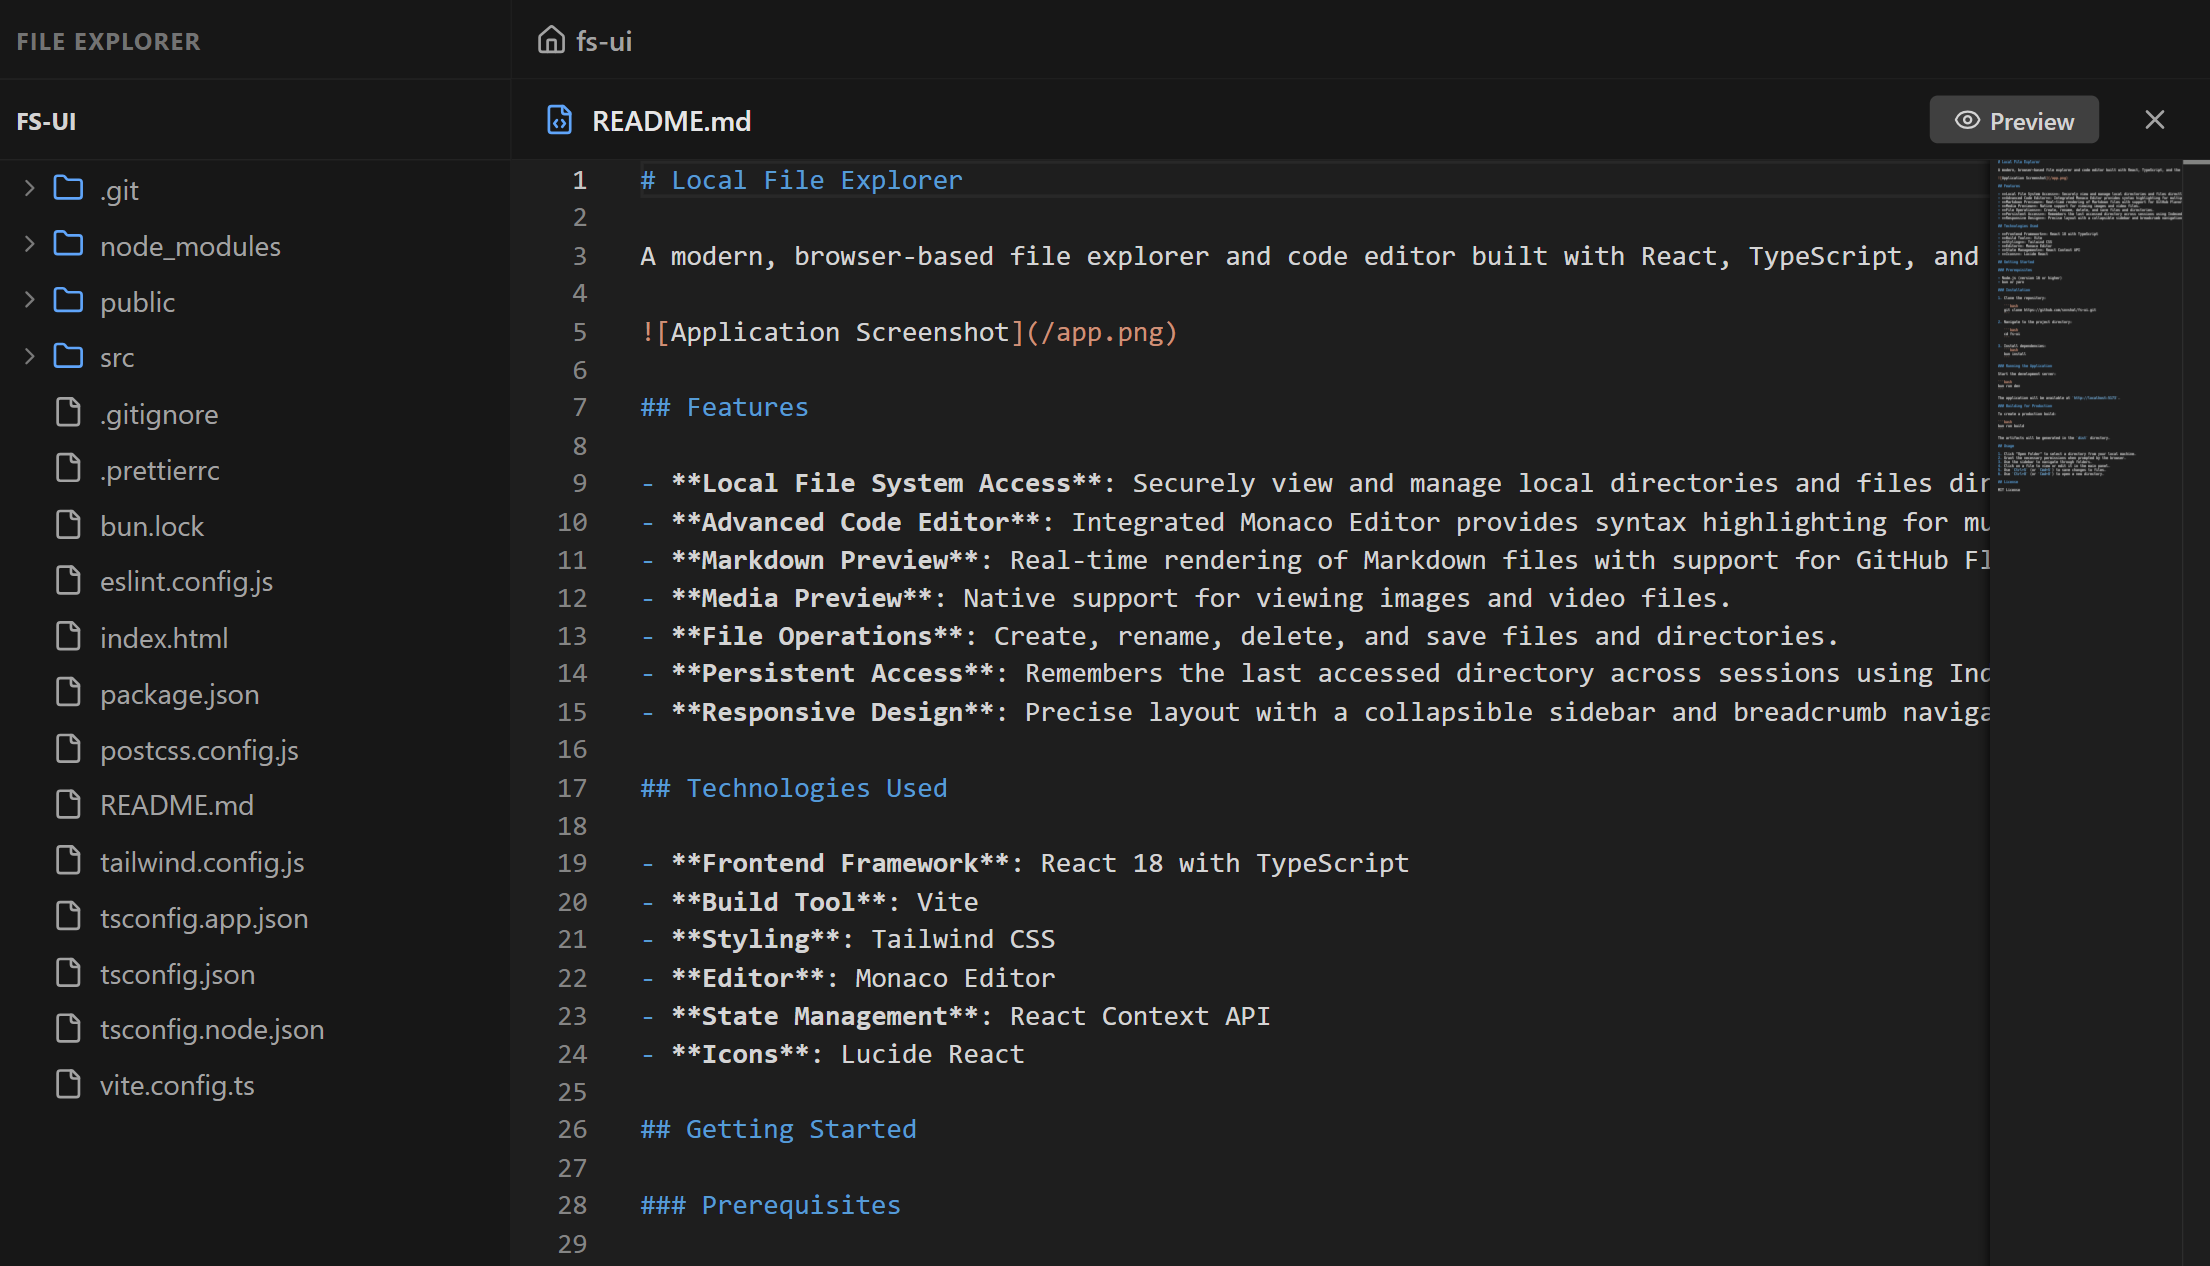
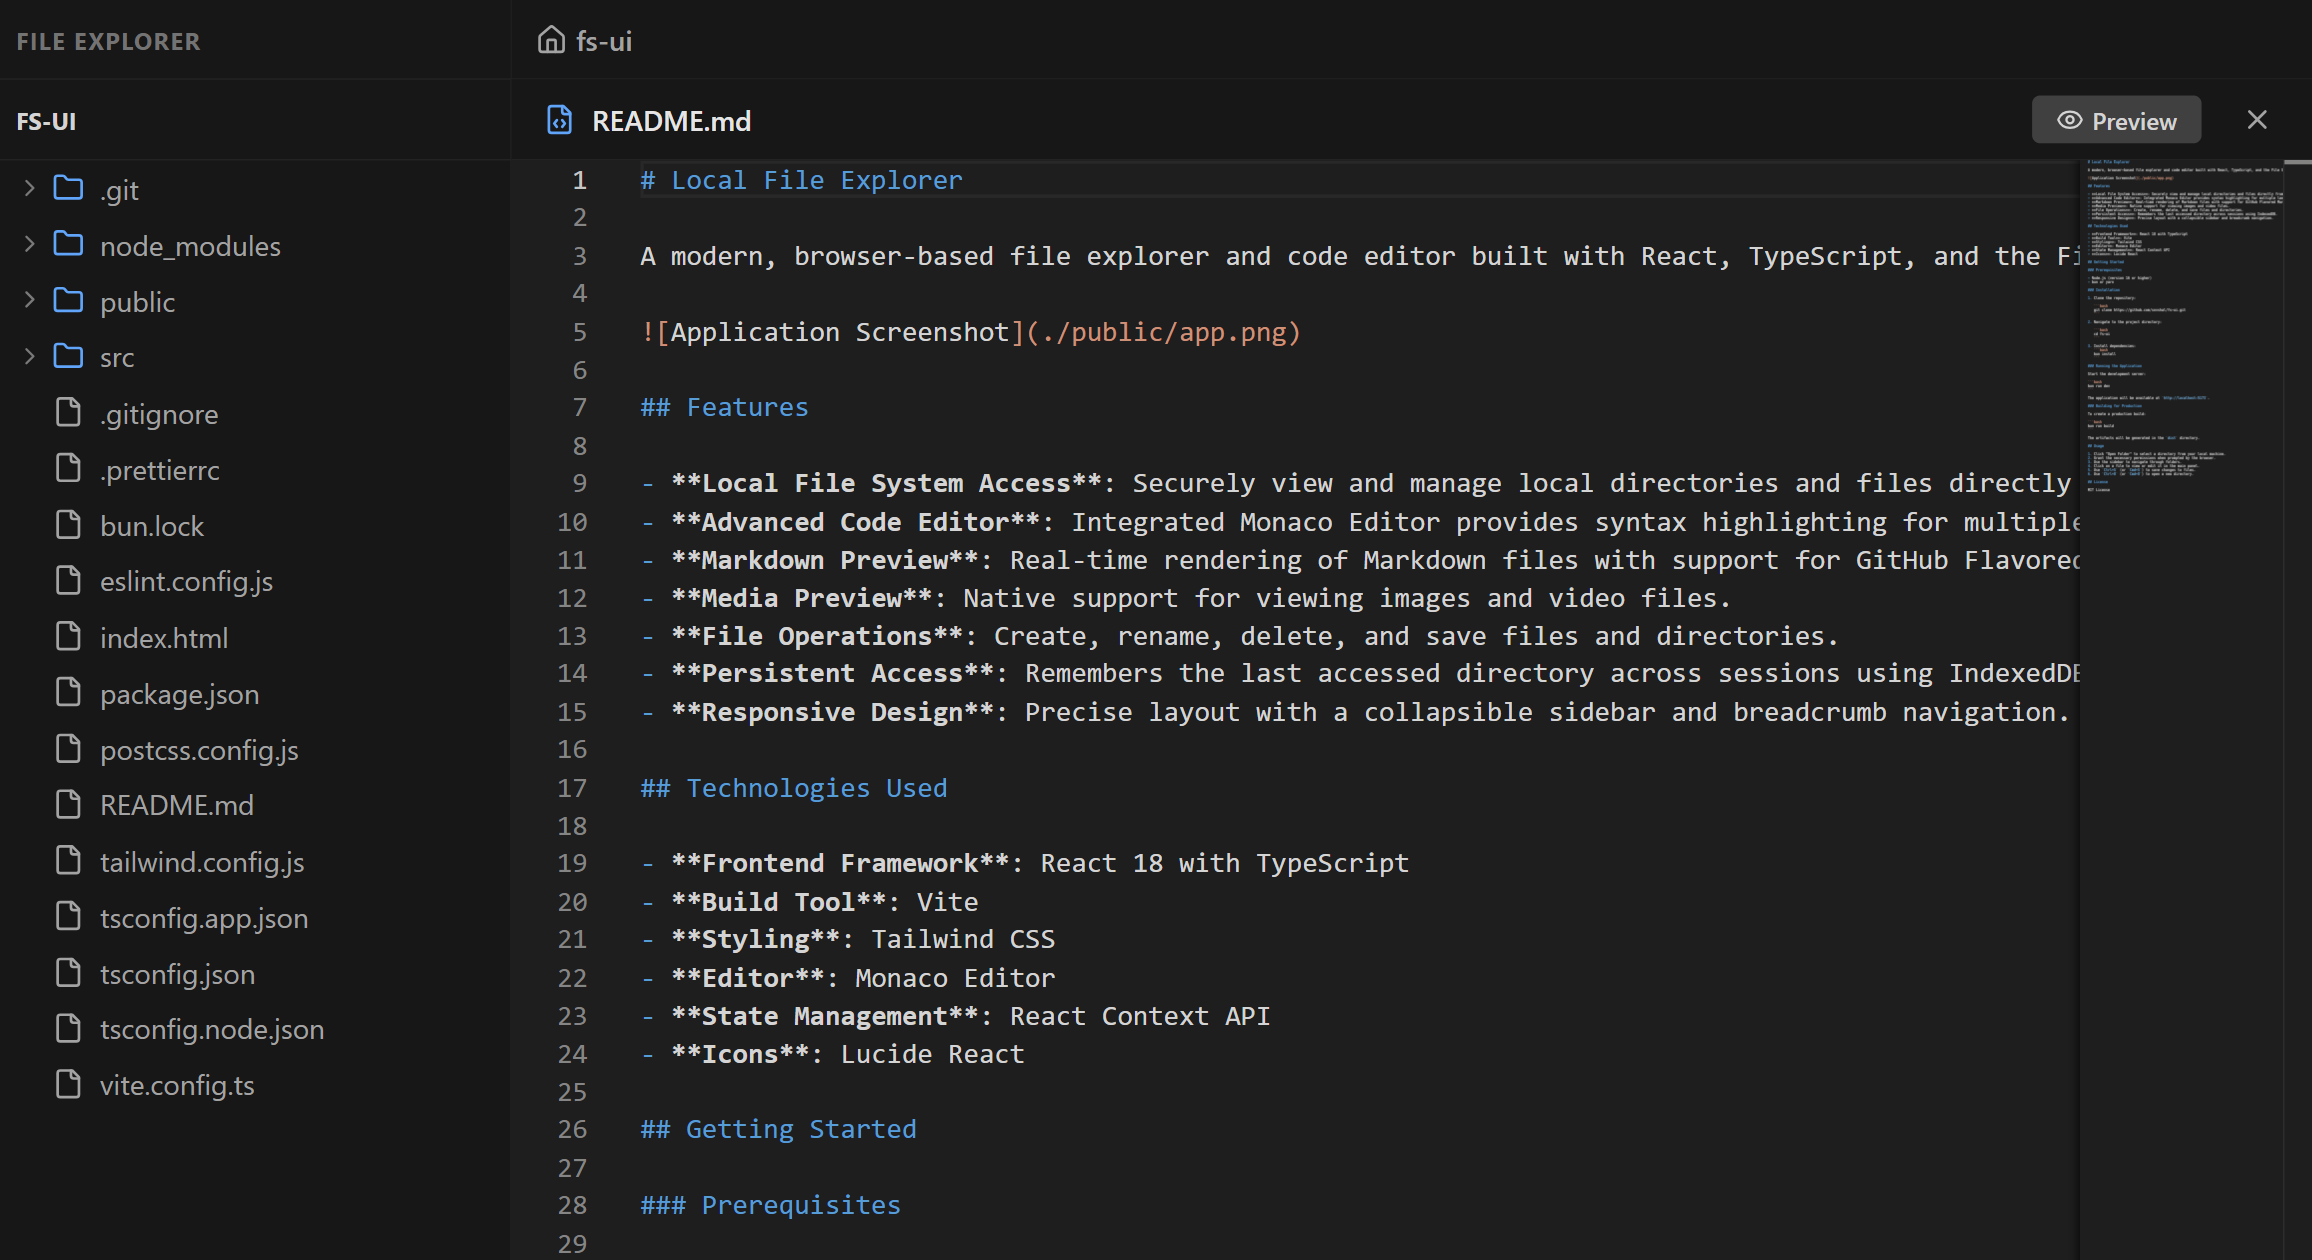
docs: add application screenshot and update README image path.

diff --git a/README.md b/README.md
@@ -2,7 +2,7 @@
 
 A modern, browser-based file explorer and code editor built with React, TypeScript, and the File System Access API. This application allows users to interact directly with their local file system, providing a seamless development experience within the browser.
 
-![Application Screenshot](/app.png)
+![Application Screenshot](./public/app.png)
 
 ## Features
 
